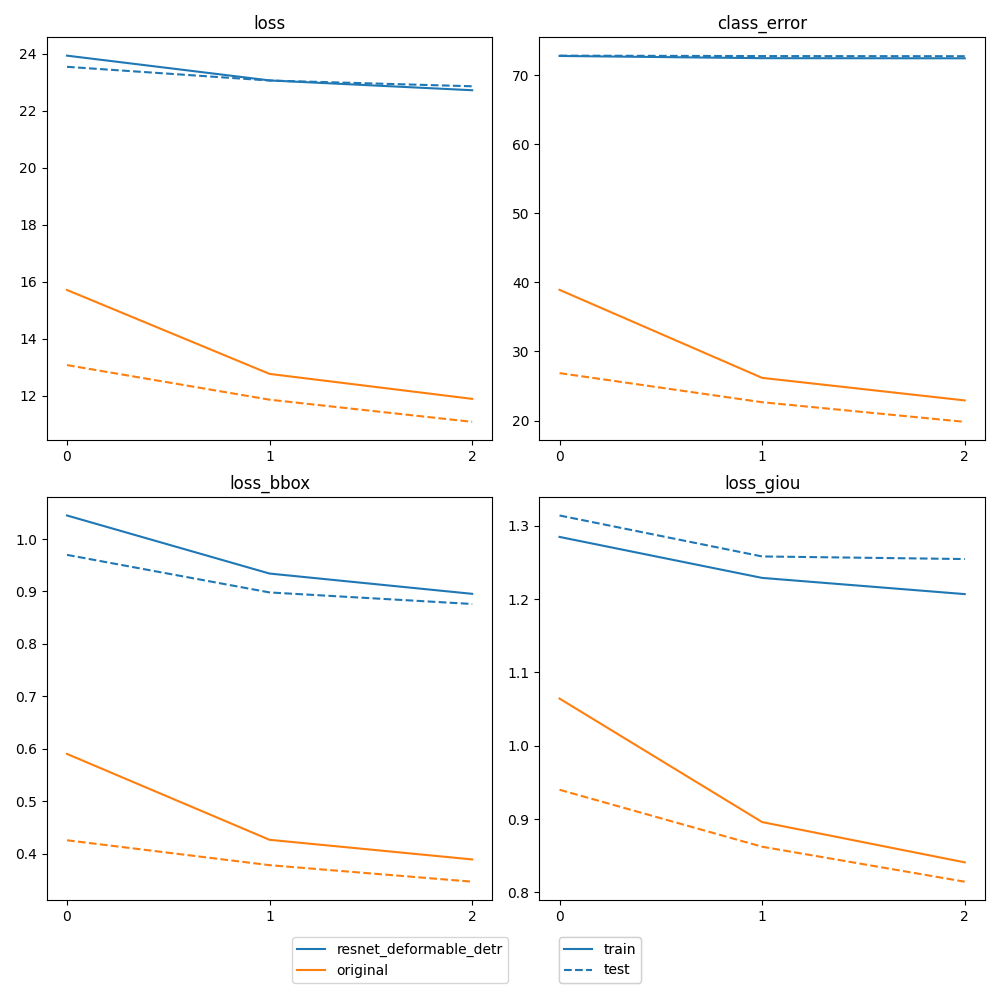
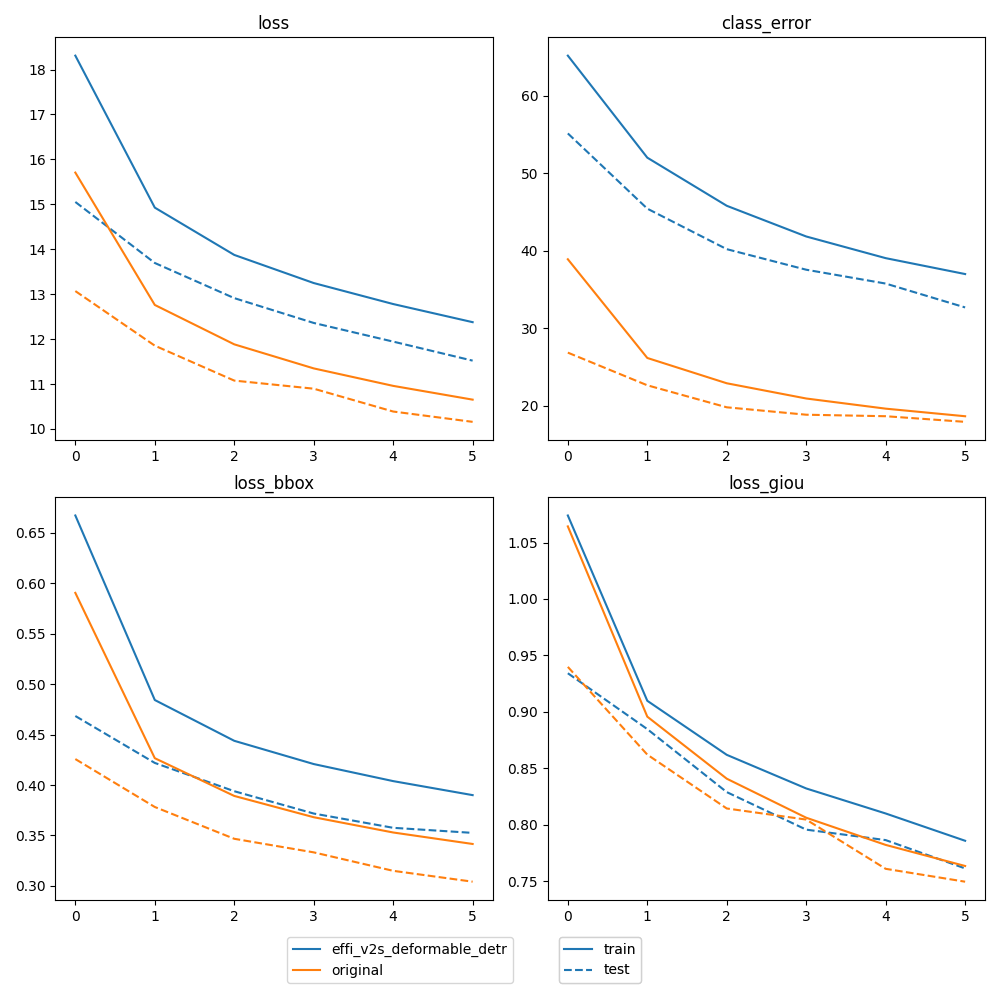
fix plot train stats

diff --git a/util/plot_utils.py b/util/plot_utils.py
@@ -62,18 +62,19 @@ def plot_logs(logs, fields=('class_error', 'loss_bbox_unscaled', 'mAP'), ewm_col
                         nrows=num_epoch) for p in logs]
     ncols = int(round(math.sqrt(len(fields))))
     nrows = int(math.ceil(len(fields) / ncols))
-    print(ncols, nrows)
     fig, axs = plt.subplots(nrows=nrows, ncols=ncols,
                             figsize=(5 * ncols, 5 * nrows))
     colors = sns.color_palette(n_colors=len(logs))
     for df, color in zip(dfs, colors):
         for j, field in enumerate(fields):
-            print(j, j // ncols, j % ncols)
+            # print(j, j // ncols, j % ncols)
             if field == 'mAP':
                 coco_eval = pd.DataFrame(pd.np.stack(df.test_coco_eval_bbox.dropna().values)[
                     :, 1]).ewm(com=ewm_col).mean()
-                print(axs)
+                # print(axs)
                 axs.plot(coco_eval, c=color)
+                return fig, axs
+
             else:
                 df.interpolate().ewm(com=ewm_col).mean().plot(
                     y=[f'train_{field}', f'test_{field}'],
@@ -84,9 +85,14 @@ def plot_logs(logs, fields=('class_error', 'loss_bbox_unscaled', 'mAP'), ewm_col
 
     # edit each ax
     for i, field in enumerate(fields):
-        ax = axs[i // ncols][i % ncols]
+        if len(fields) == 1:
+            ax = axs
+        else:
+            ax = axs[i // ncols][i % ncols]
         ax.xaxis.set_major_locator(MaxNLocator(integer=True))
         ax.set_title(field)
+        if field in "mAP":
+            return fig, axs
         ax.get_legend().remove()
     # legend
     lines = axs[0][0].get_lines()

diff --git a/visualize.py b/visualize.py
@@ -63,17 +63,16 @@ cardinality_error_4_unscaled
 
 '''
 model_path = "./exps/resnet_deformable_detr/"
+model_path = "./exps/effi_v2s_deformable_detr/"
 with open(model_path + "log.txt", 'r') as fp:
     num_line = len(fp.readlines())
 
 file = [model_path, "./exps/original"]
 file = [Path(f) for f in file]
 fields = ("loss", "class_error", "loss_bbox", "loss_giou")
-# fields = ("mAP",)
 fig, _ = plot_logs(logs=file, fields=fields, num_epoch=num_line)
 fig.savefig("result.png")
 
-# for i, f in enumerate(file):
-#     x = plot_logs(logs=f, fields=(
-#         "loss", "class_error", "loss_bbox"), num_epoch=4)
-#     x[0].savefig("i" + ".png")
+fields = ("mAP",)
+fig, _ = plot_logs(logs=file, fields=fields, num_epoch=num_line)
+fig.savefig("result_map.png")
